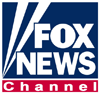
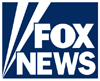
foxnews

diff --git a/app/assets/stylesheets/style.css b/app/assets/stylesheets/style.css
@@ -160,6 +160,11 @@
 
 }
 
+#grid8 #gridtitle img {
+
+	padding-top: 20px;
+}
+
 #grid11 #gridtitle img {
 
 	padding-top: 35px;
